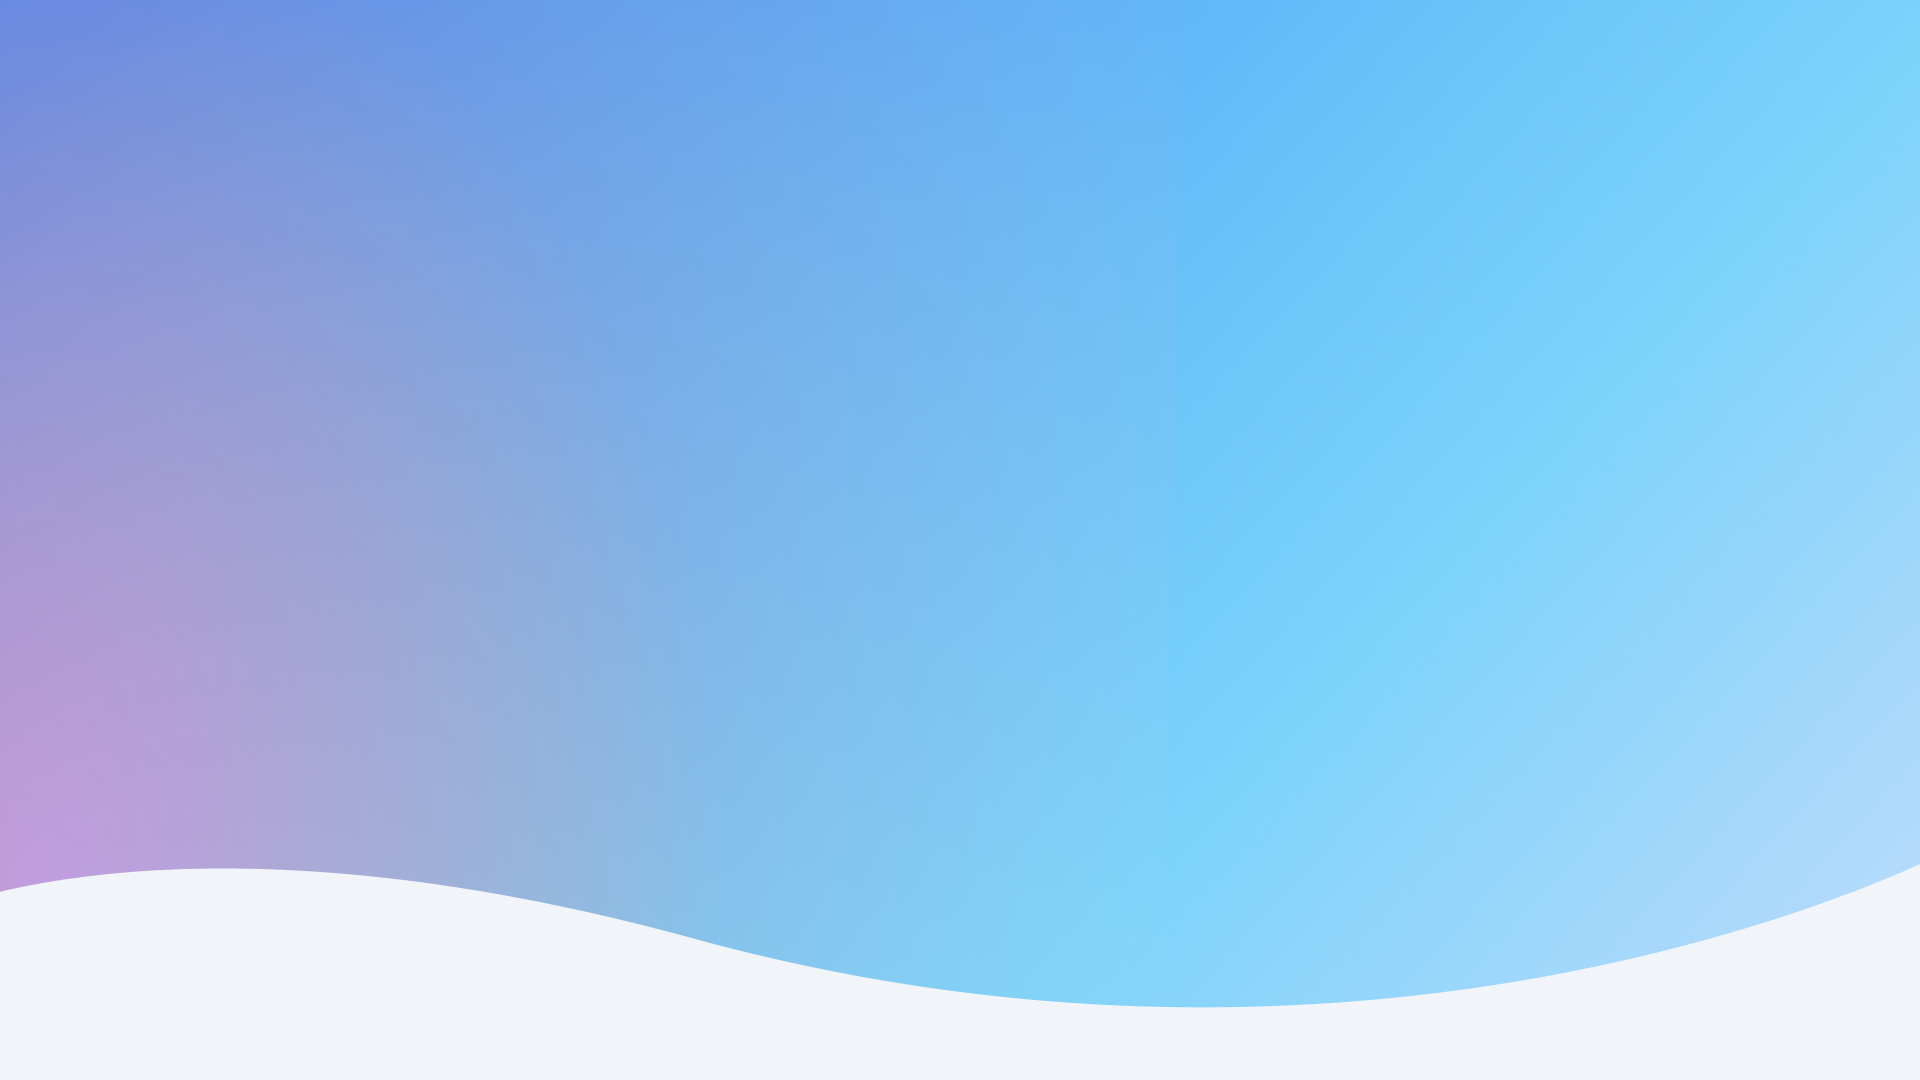
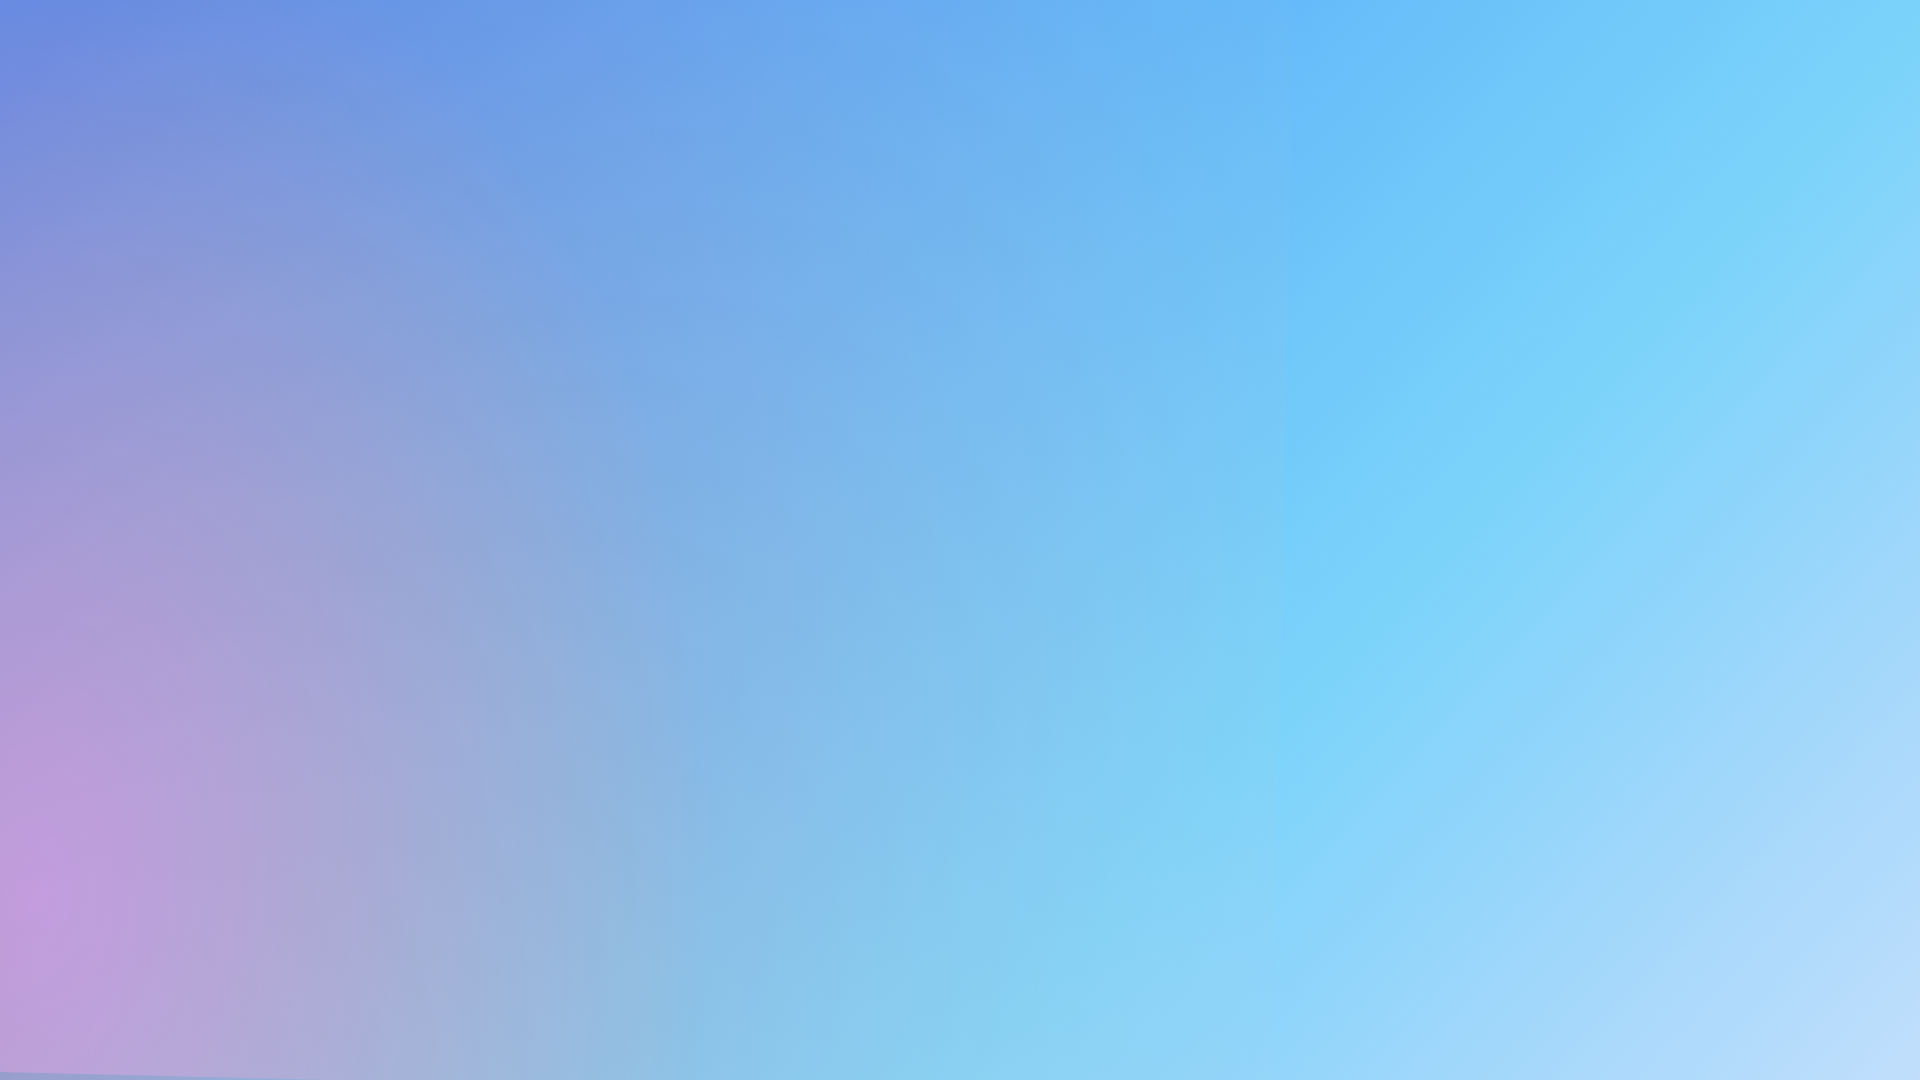
.

Changed region(s): [[0.0, 0.7944, 1.0, 1.0]]

diff --git a/src/layouts/lobby/style.module.scss b/src/layouts/lobby/style.module.scss
@@ -1,3 +1,3 @@
 .layout-lobby :global {
-  @apply flex h-full flex-col justify-between bg-[url('/image/bg-lobby.png')] bg-left-top xl:bg-right-top;
+  @apply flex h-full flex-col justify-between bg-[url('/image/bg-lobby.png')];
 }
